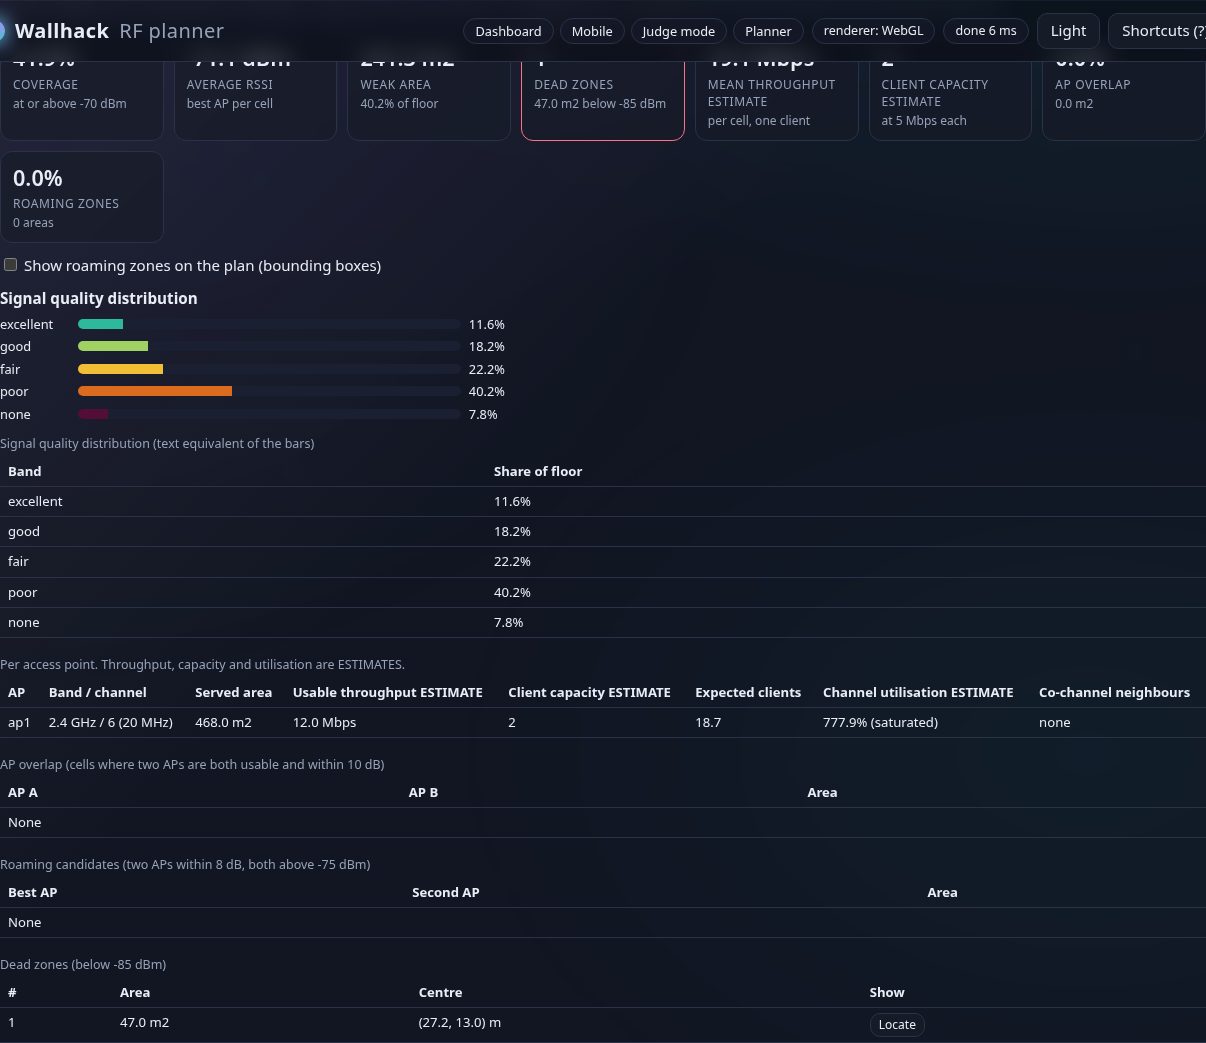
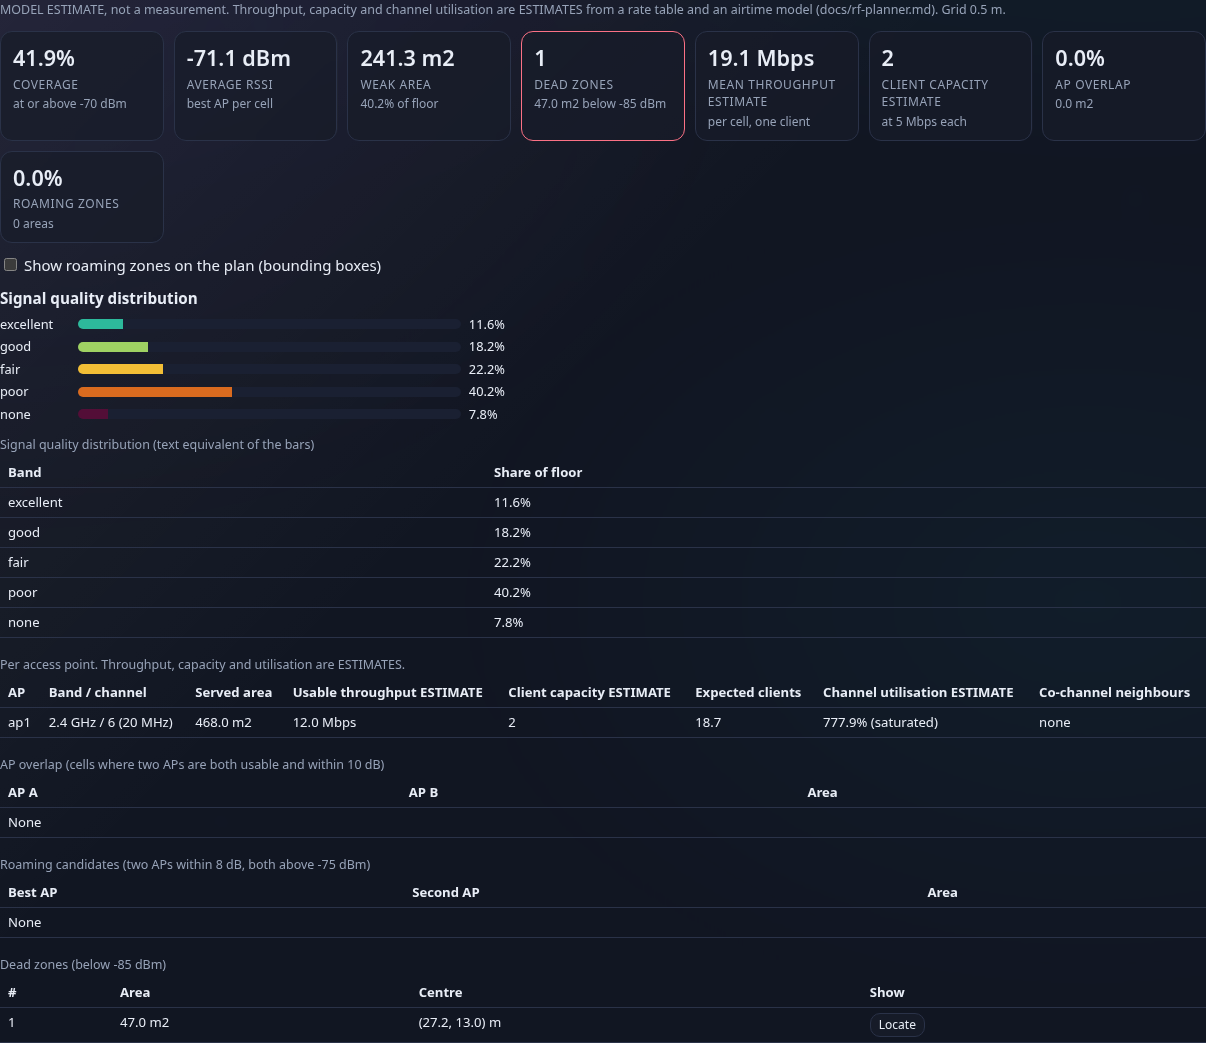
fix: sticky header no longer covers panel tops (scroll offset from --header-h); regenerate compare and analytics screenshots

diff --git a/wallhack/static/style.css b/wallhack/static/style.css
@@ -5,12 +5,15 @@
   --ok:#4ade80; --warn:#fbbf24; --bad:#fb7185;
   --ok-bg:#0f2f22; --bad-bg:#3a1520; --idle-bg:#1a2032; --warn-bg:#2b2410; --warn-line:#665316; --info-bg:#0f2a33; --info-line:#1c6575;
   --aqi-good:#4ade80; --aqi-moderate:#facc15; --aqi-sensitive:#fb923c; --aqi-unhealthy:#f87171; --aqi-very:#c084fc; --aqi-hazardous:#be123c;
+  --header-h:64px; --header-gap:12px;
   --radius:16px; --shadow:0 8px 30px rgba(0,0,0,.35); --ease:.25s ease;
 }
 * { box-sizing:border-box; }
 body { margin:0; min-height:100vh; color:var(--fg); font:15px/1.45 system-ui, -apple-system, "Segoe UI", Roboto, sans-serif;
   background:radial-gradient(900px 480px at 15% -120px, var(--glow), transparent), radial-gradient(800px 420px at 90% -100px, var(--glow2), transparent), var(--bg); background-attachment:fixed; }
-header { display:flex; justify-content:space-between; align-items:center; flex-wrap:wrap; gap:10px; padding:12px 20px; border-bottom:1px solid var(--line); backdrop-filter:blur(10px); position:sticky; top:0; z-index:4; background:rgba(8,11,18,.6); }
+html { scroll-padding-top:calc(var(--header-h) + var(--header-gap)); }
+.tabpanel, main > .card, main > section { scroll-margin-top:calc(var(--header-h) + var(--header-gap)); }
+header { min-height:var(--header-h); display:flex; justify-content:space-between; align-items:center; flex-wrap:wrap; gap:10px; padding:12px 20px; border-bottom:1px solid var(--line); backdrop-filter:blur(10px); position:sticky; top:0; z-index:4; background:rgba(8,11,18,.6); }
 h1 { margin:0; font-size:1.25rem; display:flex; align-items:center; gap:10px; letter-spacing:.02em; }
 .logo { width:22px; height:22px; border-radius:50%; background:conic-gradient(from 200deg, var(--accent), var(--accent2), var(--accent)); box-shadow:0 0 14px var(--accent2); }
 h2 { margin:0 0 10px; font-size:.78rem; text-transform:uppercase; letter-spacing:.1em; color:var(--muted); }
@@ -115,6 +118,7 @@ button:focus-visible, select:focus-visible, input:focus-visible, canvas:focus-vi
 :root[data-theme="light"] header { background:rgba(243,245,251,.7); }
 
 @media (max-width:700px) {
+  :root { --header-h:52px; }
   header { padding:8px 12px; } main { padding:10px 12px; gap:12px; }
   .card.wide { grid-column:span 1; }
   .badge { font-size:1.4rem; }

diff --git a/CHANGELOG.md b/CHANGELOG.md
@@ -3,6 +3,7 @@
 ## Unreleased
 
 ### RF planner engine
+- fix: the sticky header covered the top of the planner panels (compare, analytics) when they were scrolled into view. `--header-h` in `style.css` now drives `scroll-padding-top` and `scroll-margin-top`; the four planner compare and analytics screenshots are regenerated.
 - fix: an AP with an unknown band and no channel was accepted when no band list was passed; `validateProject` now checks the band against `rf-config.json` bands.
 - fix: projects with an empty or whitespace-only name failed to load in `twin.validate_twin` (and a whitespace name was kept by the planner); both now use `Untitled`.
 - fix: `PUT /api/twin` had the 1 MB cap, so a twin with floor-plan images (up to 600000 characters each) returned 413. It now has its own limit, `app.MAX_TWIN_BODY_BYTES`, derived from the `limits` in `rf-config.json` (`max_floors` x (`max_background_chars` + items x `twin_json_bytes_per_item`) + `twin_body_overhead_bytes`, about 23 MB). Every other route keeps the 1 MB cap (`MAX_BODY_BYTES`).
